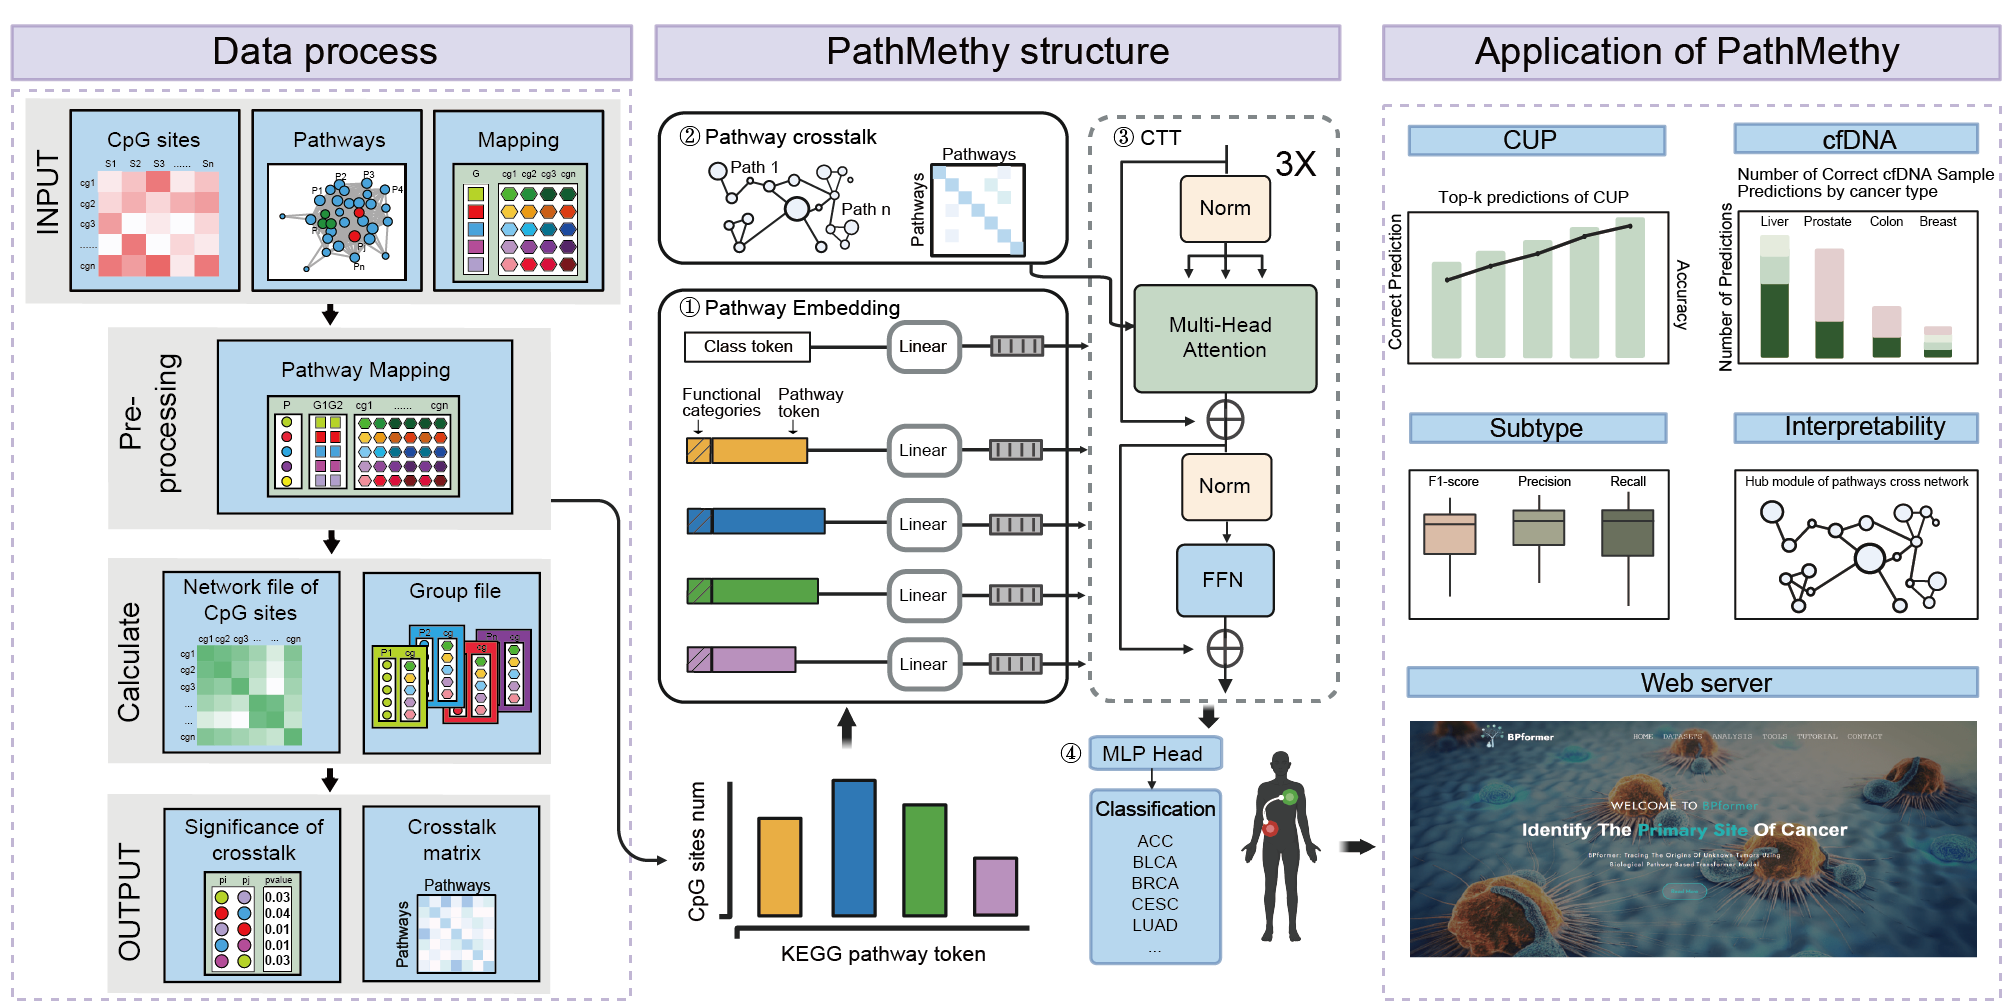
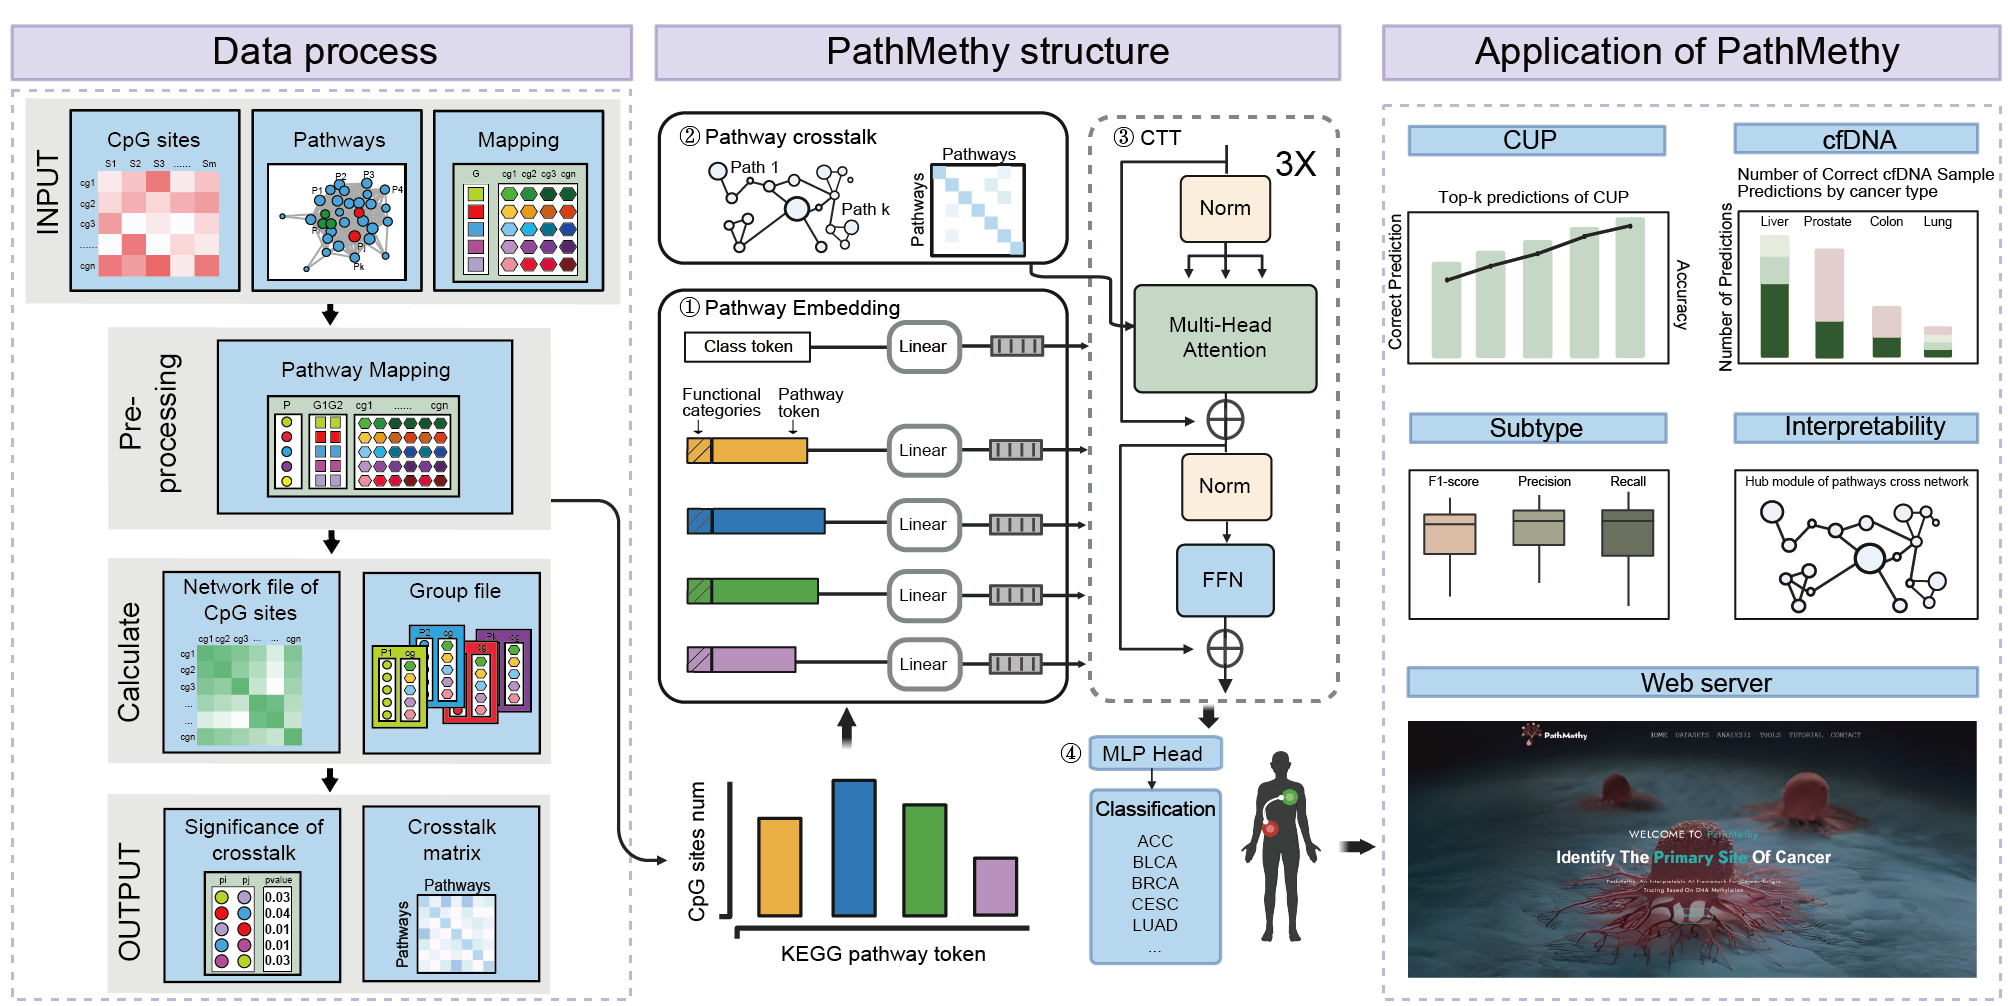
Update README

Changed region(s): [[0.6793, 0.7087, 0.988, 0.9861], [0.9572, 0.2157, 0.988, 0.2465]]

diff --git a/README.md b/README.md
@@ -4,68 +4,25 @@
 
 ![img](data/img/image.png)
 
-Despite advanced diagnostics, 3-5% of cases remain classified as cancer of unknown primary (CUP). DNA methylation, an important epigenetic feature, is essential for determining the origin of metastatic tumors. We presented PathMethy, a novel Transformer model integrated with functional categories and crosstalk of pathways, to accurately tracing the origin of tumors in CUPs based on DNA methylation. PathMethy outperformed seven competing methods in F1-score across nine cancer datasets and predicted accurately the molecular subtypes within 9 primary tumor types. It not only excelled at tracing the origins of both primary and metastatic tumors, but also demonstrated a high degree of agreement with previously diagnosed sites in cases of CUP. PathMethy provided biological insights by highlighting key pathways, functional categories and their interactions. Using functional categories of pathways, we gained a global understanding of biological processes. For broader access, a user-friendly web server for researchers and clinicians is available at https://cup.bpformer.com/index/.
+Despite advanced diagnostics, 3-5% of cases remain classified as cancer of unknown primary (CUP). DNA methylation, an important epigenetic feature, is essential for determining the origin of metastatic tumors. We presented PathMethy, a novel Transformer model integrated with functional categories and crosstalk of pathways, to accurately tracing the origin of tumors in CUPs based on DNA methylation. PathMethy outperformed seven competing methods in F1-score across nine cancer datasets and predicted accurately the molecular subtypes within 9 primary tumor types. It not only excelled at tracing the origins of both primary and metastatic tumors, but also demonstrated a high degree of agreement with previously diagnosed sites in cases of CUP. PathMethy provided biological insights by highlighting key pathways, functional categories and their interactions. Using functional categories of pathways, we gained a global understanding of biological processes. For broader access, a user-friendly web server for researchers and clinicians is available at https://cup.pathmethy.com/index/.
 
 # 🚀 Usage
 
-## Method 1: Using Docker (Recommended)
+## Method 1: Using conda and git
 
-We' ve packaged the code, model weights, and dependencies into a single Docker container.
-
-**Get and start the image:**
-
-```shell
-docker pull 000199/pathmethy:latest
-docker run -it --name PathMethy_container 000199/pathmethy:latest
-```
-
-**Run:**
-
-```shell
-cd PathMethy/
-python3 main.py ./configs/example.yaml  
-```
-
-## Method 2: Using conda and git
+Clone the repository or download the ZIP file of the repository. The repository contains the model and data, which are somewhat large. Downloading the ZIP file might be faster. Cloning the repository takes about 10 minutes.
 
 ```sh
-git clone https://github.com/Kodp/PathMethy.git
-conda create -n PathMethy python=3.10
+git clone https://github.com/Kodp/PathMethy.git  # clone the repo
+cd PathMethy
+conda create -n PathMethy python=3.10 # Combine weights and data files
 conda activate PathMethy
 pip install --requirement requirements.txt
+python ./utils/file_chunk.py combine ./metadata.yaml  
 ```
 
-The model is too large to be directly uploaded to GitHub, so we use Git LFS for the upload. You can use two methods to obtain the model and test data:
 
-**Git LFS**
-
-🔗 Install from the official website: [Git Large File Storage](https://git-lfs.github.com/)
-
-or
-
-```sh
-sudo apt-get install git-lfs  
-```
-
-After installing Git LFS and cloning the repository, run:
-
-```sh
-git lfs pull
-```
-
-This command will automatically download the model and test data. It will download three files:
-
-```
-MODEL/model.pth.tar
-data/cor_matrix50.csv
-data/test_data.pkl
-```
-
-> Hint. If you just git clone the repo, the above three files will only generate placeholders, not the files themselves.
-
-**Baidu**
-
-link: https://pan.baidu.com/s/1WVSmzfc0M8U_AVhPO3ZhNA?pwd=t54k code: t54k
+> This conda environment is using GPU-accelerated PyTorch. To use this environment, the CUDA version must be 12.0 or higher.
 
 **Run:**
 
@@ -76,3 +33,27 @@ python3 main.py ./configs/example.yaml
 The YAML file contains the experiment configuration. You can customize your experiment by using this config. Check the comments in `example.yaml` to know how to do it.
 
 Each experiment's files are located in the `experiments` directory. The name of each subdirectory is the experiment name, which is configured in the YAML file under the `.exp_name` key.
+
+## Method 2: Using Docker
+
+We' ve packaged the code, model weights, and dependencies into a single Docker container.
+
+**Get and start the image:**
+
+```shell
+docker pull 000199/pathmethy:latest
+docker run -it --name PathMethy_container 000199/pathmethy:latest
+```
+
+> This Docker is configured to use the CPU only, so there's no need for CUDA or a graphics card.
+
+**Run:**
+
+```shell
+cd PathMethy/
+python3 main.py ./configs/example.yaml  
+```
+
+## Contact
+
+If you encounter any problems, bugs, or have any questions, feel free to submit an issue. Alternatively, please contact [songyh@stu.xmu.edu.cn](mailto:cying2023@stu.xmu.edu.cn) or [xiejiajing@stu.xmu.edu.cn](mailto:xiejiajing@stu.xmu.edu.cn).
